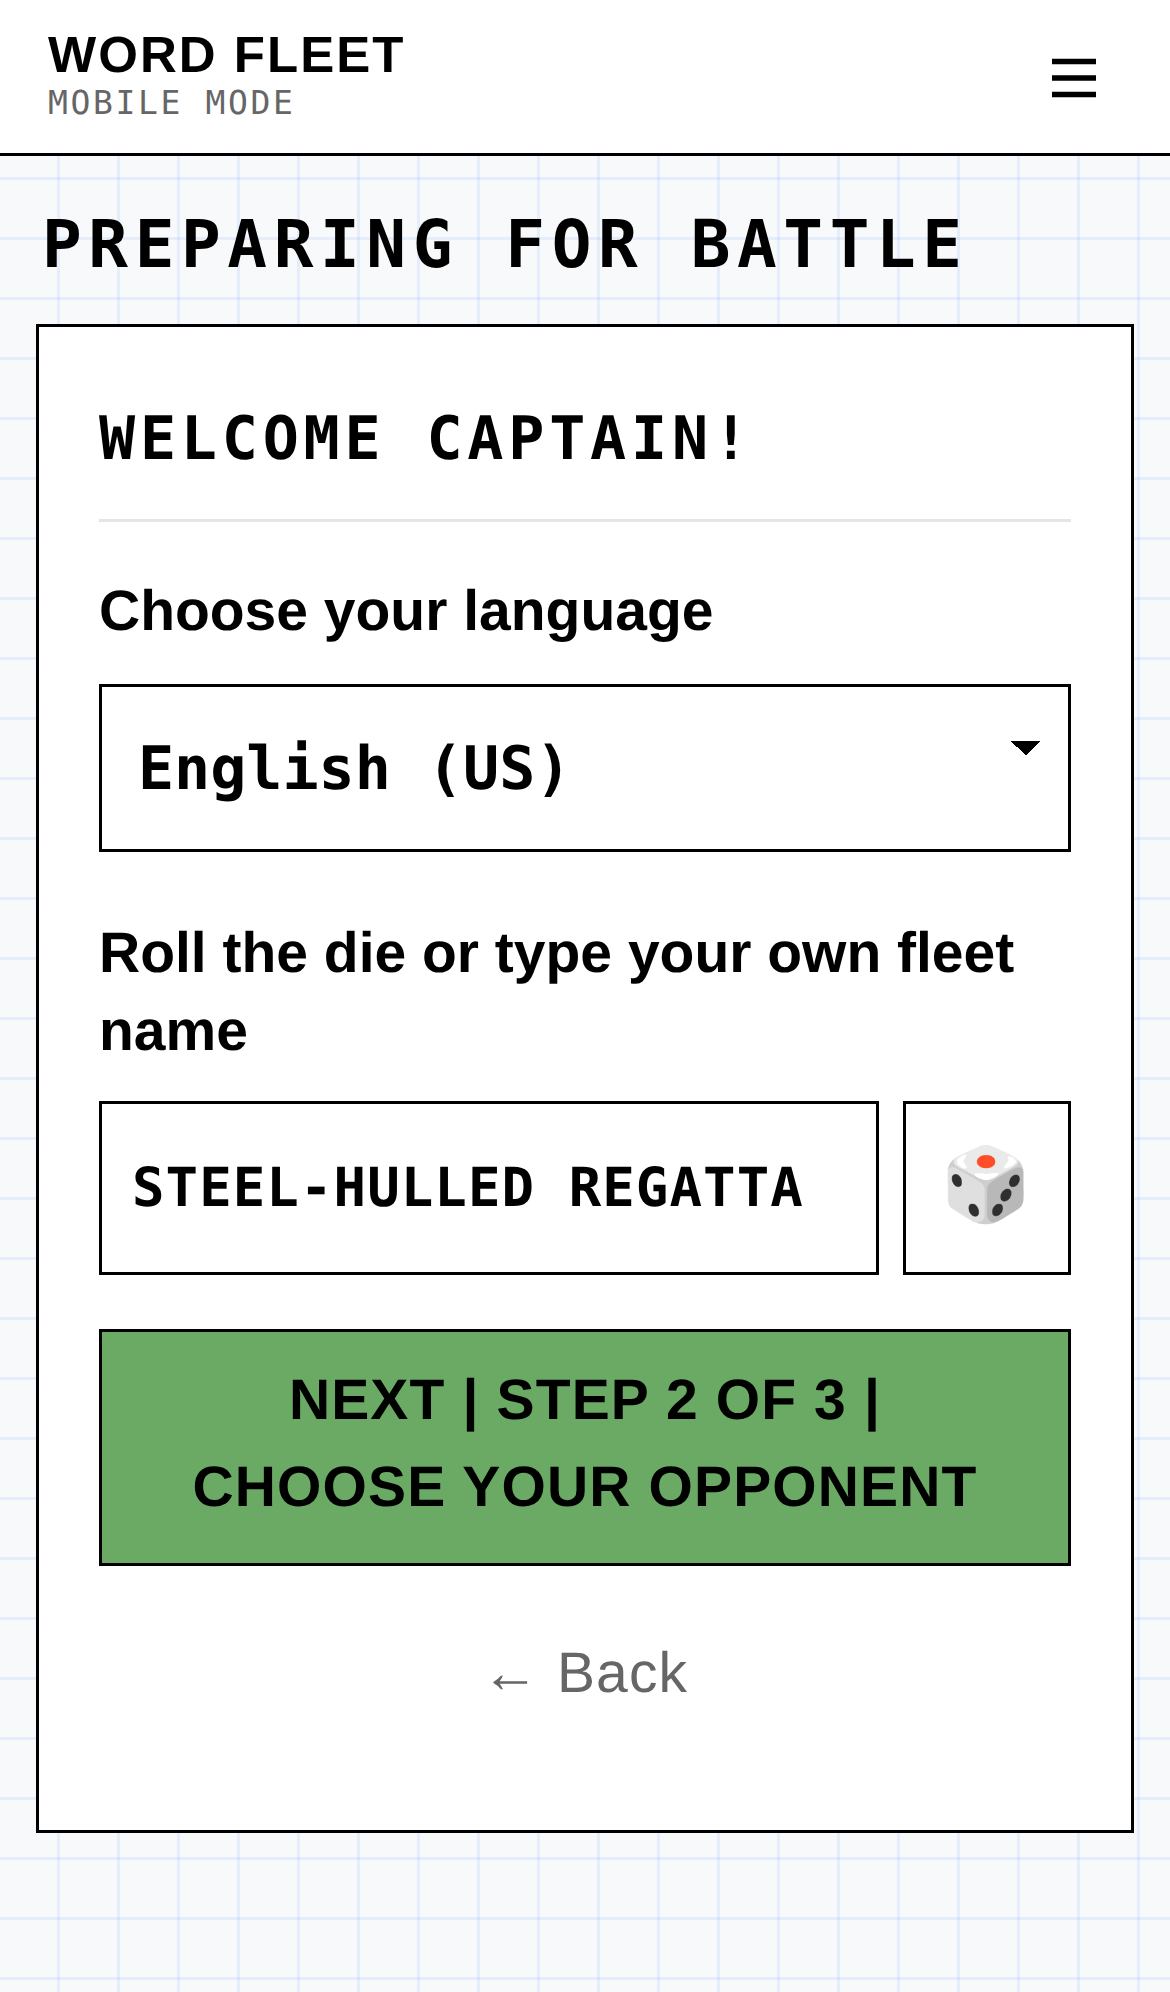
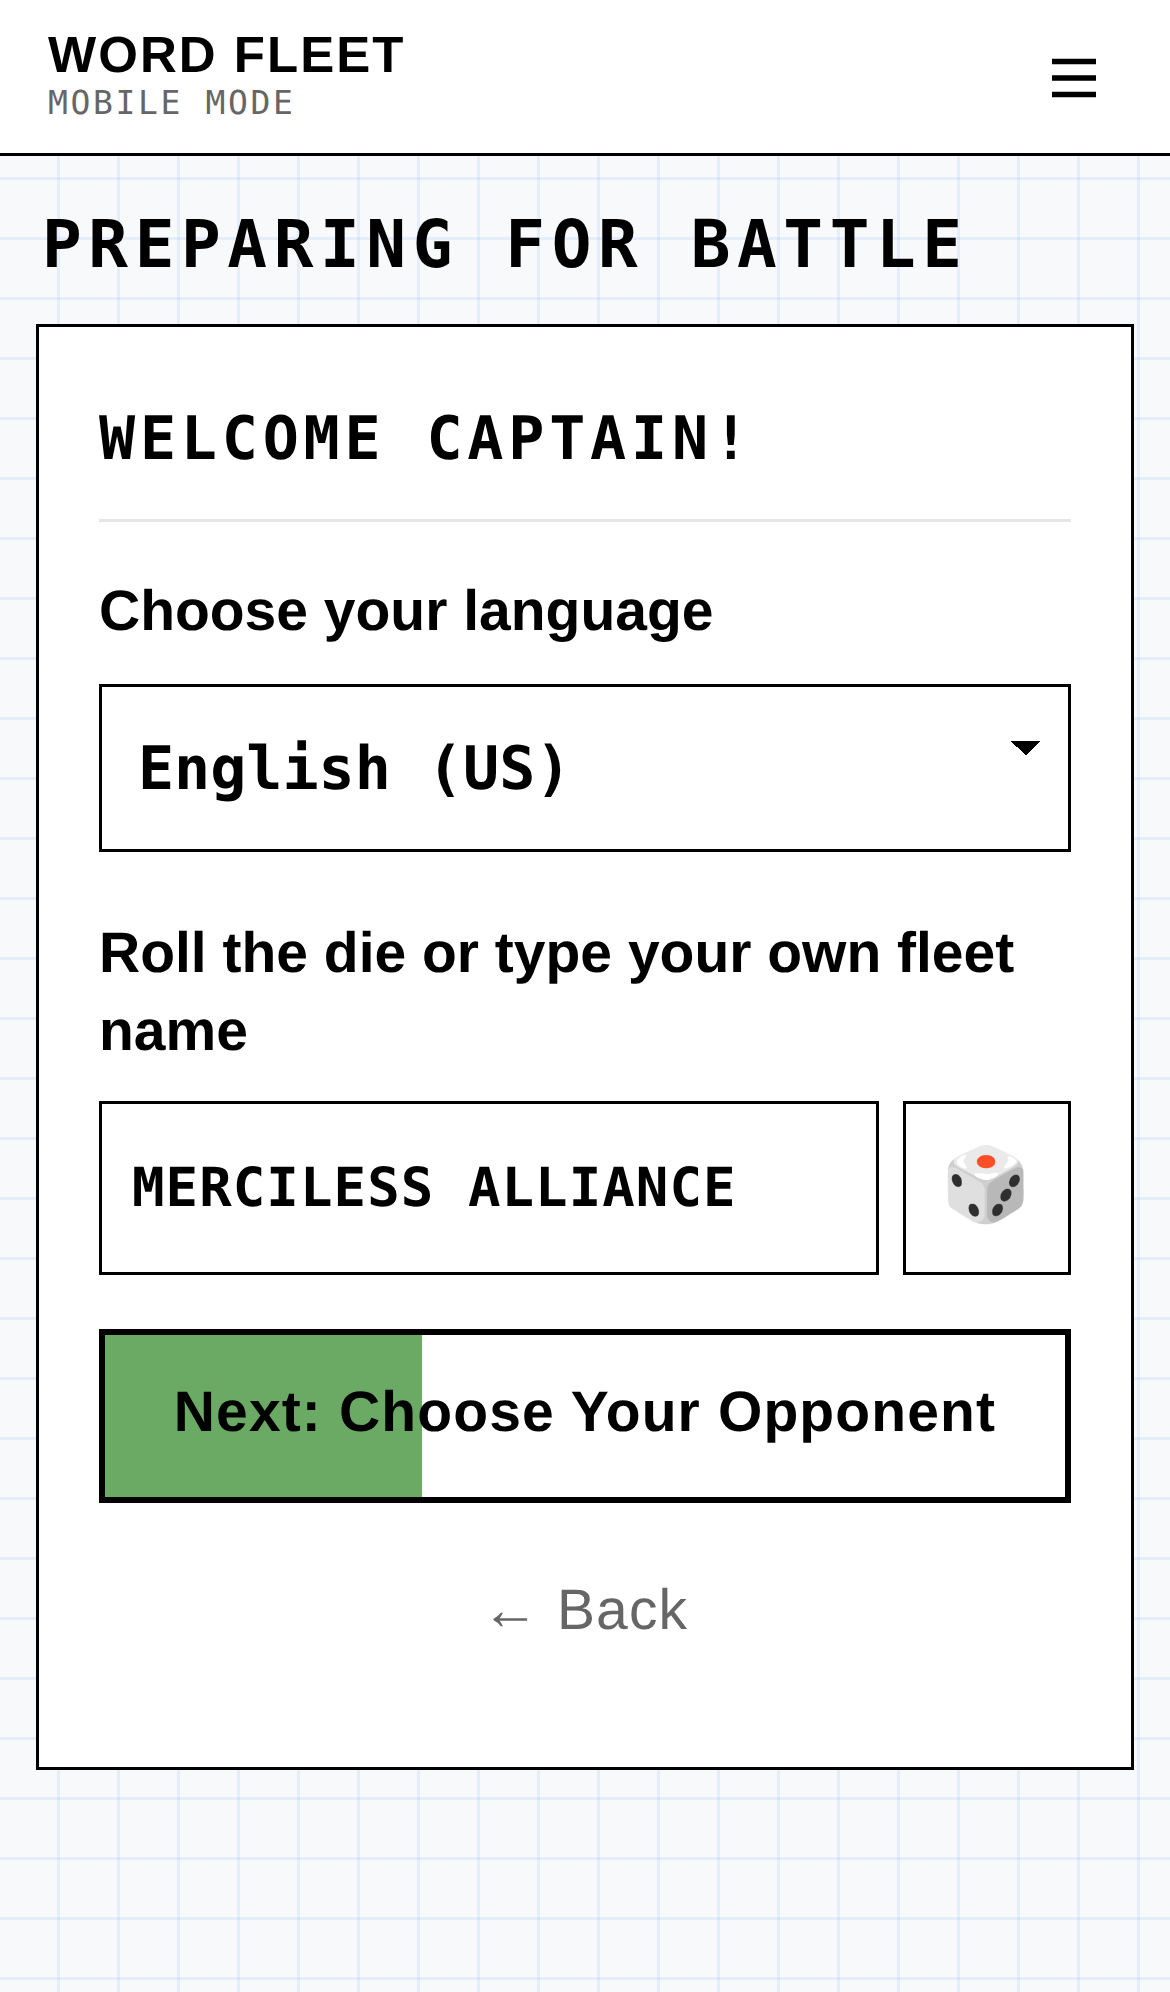
Setup Next buttons: short labels, green fill shows progress (33%, 67%, 100%)
Claude-Session: https://claude.ai/code/session_013sUGAAEC45a1EJCrQWVj9Q

diff --git a/mobile/index.html b/mobile/index.html
@@ -18,7 +18,7 @@
   <link rel="preconnect" href="https://fonts.gstatic.com" crossorigin>
   <link href="https://fonts.googleapis.com/css2?family=Courier+Prime:wght@400;700&family=Inter:wght@400;500;600;700&display=swap" rel="stylesheet">
   <!-- Bump ?v= on every release (and CACHE in sw.js) so a new page never runs old code. -->
-  <link rel="stylesheet" href="app.css?v=46">
+  <link rel="stylesheet" href="app.css?v=47">
 </head>
 <body>
 
@@ -65,7 +65,7 @@
         <button class="btn btn--sq" id="btnRollName" type="button" aria-label="Random fleet name">&#x1F3B2;</button>
       </div>
 
-      <button class="btn btn--primary btn--wide btn--next" id="btnToOpponent" type="button">NEXT | STEP 2 OF 3 | CHOOSE YOUR OPPONENT</button>
+      <button class="btn btn--wide btn--next btn--progress" style="--progress: 33%" id="btnToOpponent" type="button" aria-label="Next: Choose Your Opponent (step 1 of 3 done)">Next: Choose Your Opponent</button>
       <a class="btn btn--ghost btn--wide" id="lnkHome" href="../">&larr; Back</a>
     </div>
   </section>
@@ -83,7 +83,7 @@
       </div>
       <p class="hint" id="levelHint"></p>
 
-      <button class="btn btn--primary btn--wide btn--next" id="btnToWords" type="button">NEXT | STEP 3 OF 3 | BUILD YOUR WORD-SHIPS</button>
+      <button class="btn btn--wide btn--next btn--progress" style="--progress: 67%" id="btnToWords" type="button" aria-label="Next: Build Your Word-Ships (step 2 of 3 done)">Next: Build Your Word-Ships</button>
       <button class="btn btn--ghost btn--wide" id="btnBackToSetup" type="button">&larr; Back</button>
     </div>
   </section>
@@ -102,7 +102,7 @@
       <button class="btn btn--wide btn--sm-gap" id="btnRefreshAll" type="button">&#x21bb; Refresh All</button>
       <p class="note" id="setupNote"></p>
 
-      <button class="btn btn--primary btn--wide btn--next" id="btnToDeploy" type="button">Deploy Fleet</button>
+      <button class="btn btn--wide btn--next btn--progress" style="--progress: 100%" id="btnToDeploy" type="button">Deploy Fleet</button>
       <button class="btn btn--ghost btn--wide" id="btnBackToOpponent" type="button">&larr; Back</button>
     </div>
   </section>
@@ -217,7 +217,7 @@
 
 <div class="toast" id="toast" hidden></div>
 
-<script src="audio.js?v=46"></script>
-<script src="app.js?v=46"></script>
+<script src="audio.js?v=47"></script>
+<script src="app.js?v=47"></script>
 </body>
 </html>

diff --git a/mobile/app.css b/mobile/app.css
@@ -436,3 +436,7 @@ button.mf { font: inherit; color: var(--ink); width: 100%; padding: 3px 0 2px; c
 /* Big on/off switch on 003 (Possibly Offensive Words OK) */
 .switch-row--big { font-size: 19px; font-weight: 700; gap: 16px; min-height: 56px; }
 .switch-row--big .switch { transform: scale(1.3); transform-origin: right center; margin-right: 4px; }
+
+/* Next buttons on 001-003 double as a progress bar: green fills left to right (33%, 67%, 100%). */
+.btn--progress { background: linear-gradient(to right, var(--green) var(--progress, 0%), var(--paper) var(--progress, 0%)); border-width: 2px; }
+.btn--progress:active:not(:disabled) { background: var(--green-dark); color: var(--ink); }

diff --git a/mobile/sw.js b/mobile/sw.js
@@ -1,11 +1,11 @@
 /* Word Fleet service worker: the whole game works offline once loaded. */
-var CACHE = 'wordfleet-v46';
+var CACHE = 'wordfleet-v47';
 var SHELL = [
   './',
   'index.html',
-  'app.css?v=46',
-  'app.js?v=46',
-  'audio.js?v=46',
+  'app.css?v=47',
+  'app.js?v=47',
+  'audio.js?v=47',
   'manifest.webmanifest',
   'icons/icon-180.png',
   'icons/icon-192.png',

diff --git a/mobile/screens/README.md b/mobile/screens/README.md
@@ -8,7 +8,7 @@ referred to by name when asking for changes. Each has a reference snapshot in th
 | Name | In the code | Snapshot | What it is |
 | --- | --- | --- | --- |
 | **MOBILE-HOME** *(parked)* | `<section id="scrMobileHome" data-screen="MOBILE-HOME">`, `SCREENS.home` | `mobile-home.png` | **Parked, not shown to players.** Kept for later use. Was the first screen: WORD FLEET title, Mobile Mode tag, blurb, New Battle and Rules of Engagement buttons. The app now opens on 001-MOBILE-PREPARE. |
-| **001-MOBILE-PREPARE** | `<section id="scrSetup" data-screen="001-MOBILE-PREPARE">`, `SCREENS.setup` | `001-mobile-prepare.png` | **First screen players see.** Card title "Welcome Captain!". "Choose your language", then "Roll the die or type your own fleet name" (with dice). Changing language rolls a new fleet name in that language (`dictionaries/fleet-names.json`). Button "NEXT | STEP 2 OF 3 | CHOOSE YOUR OPPONENT". "← Back" goes to the Word Fleet home page (`../`, the site's `index.html`). Screens 001-003 share one look: a "PREPARING FOR BATTLE" page header above the card (`.page-head`), the step's card title, plain-language section headers (`.label--say`), and large, easy-to-read text (`.setup-big`). |
-| **002-MOBILE-OPPONENT** | `<section id="scrOpponent" data-screen="002-MOBILE-OPPONENT">`, `SCREENS.opponent` | `002-mobile-opponent.png` | Card title "Choose Your Opponent", section "Pick the AI Captain you'll face": the three AI Captains (Captain Rubber Duck, Captain Steady, Captain Lexicon), each with a short character sketch. Button "NEXT | STEP 3 OF 3 | BUILD YOUR WORD-SHIPS". |
-| **003-MOBILE-WORD-SHIPS** | `<section id="scrWords" data-screen="003-MOBILE-WORD-SHIPS">`, `SCREENS.words` | `003-mobile-word-ships.png` | Card title "Build Your Word-Ships". Section "Offensive words": a "Possibly Offensive Words OK" on/off switch, "Applies to both fleets." Section "Your five word-ships": the five word-ships arrive drawn for your opponent and are editable, each with a ↻ redraw; Refresh All; Deploy Fleet checks every word against the dictionary. |
+| **001-MOBILE-PREPARE** | `<section id="scrSetup" data-screen="001-MOBILE-PREPARE">`, `SCREENS.setup` | `001-mobile-prepare.png` | **First screen players see.** Card title "Welcome Captain!". "Choose your language", then "Roll the die or type your own fleet name" (with dice). Changing language rolls a new fleet name in that language (`dictionaries/fleet-names.json`). Button "Next: Choose Your Opponent", filled 33% green as a progress bar. "← Back" goes to the Word Fleet home page (`../`, the site's `index.html`). Screens 001-003 share one look: a "PREPARING FOR BATTLE" page header above the card (`.page-head`), the step's card title, plain-language section headers (`.label--say`), and large, easy-to-read text (`.setup-big`). |
+| **002-MOBILE-OPPONENT** | `<section id="scrOpponent" data-screen="002-MOBILE-OPPONENT">`, `SCREENS.opponent` | `002-mobile-opponent.png` | Card title "Choose Your Opponent", section "Pick the AI Captain you'll face": the three AI Captains (Captain Rubber Duck, Captain Steady, Captain Lexicon), each with a short character sketch. Button "Next: Build Your Word-Ships", filled 67% green. |
+| **003-MOBILE-WORD-SHIPS** | `<section id="scrWords" data-screen="003-MOBILE-WORD-SHIPS">`, `SCREENS.words` | `003-mobile-word-ships.png` | Card title "Build Your Word-Ships". Section "Offensive words": a "Possibly Offensive Words OK" on/off switch, "Applies to both fleets." Section "Your five word-ships": the five word-ships arrive drawn for your opponent and are editable, each with a ↻ redraw; Refresh All; Deploy Fleet (filled 100% green) checks every word against the dictionary. |
 | **004-MOBILE-DEPLOY** | `<section id="scrDeploy" data-screen="004-MOBILE-DEPLOY">`, `SCREENS.deploy` | `004-mobile-deploy.png`, `004-mobile-deploy-placed.png` | Place the five word-ships on your Defense Grid: Across/Down, Scatter, Clear, the roster of ships, Confirm Deployment, Change Words. Drag a ship to move it; double-tap its first letter to turn it. |
